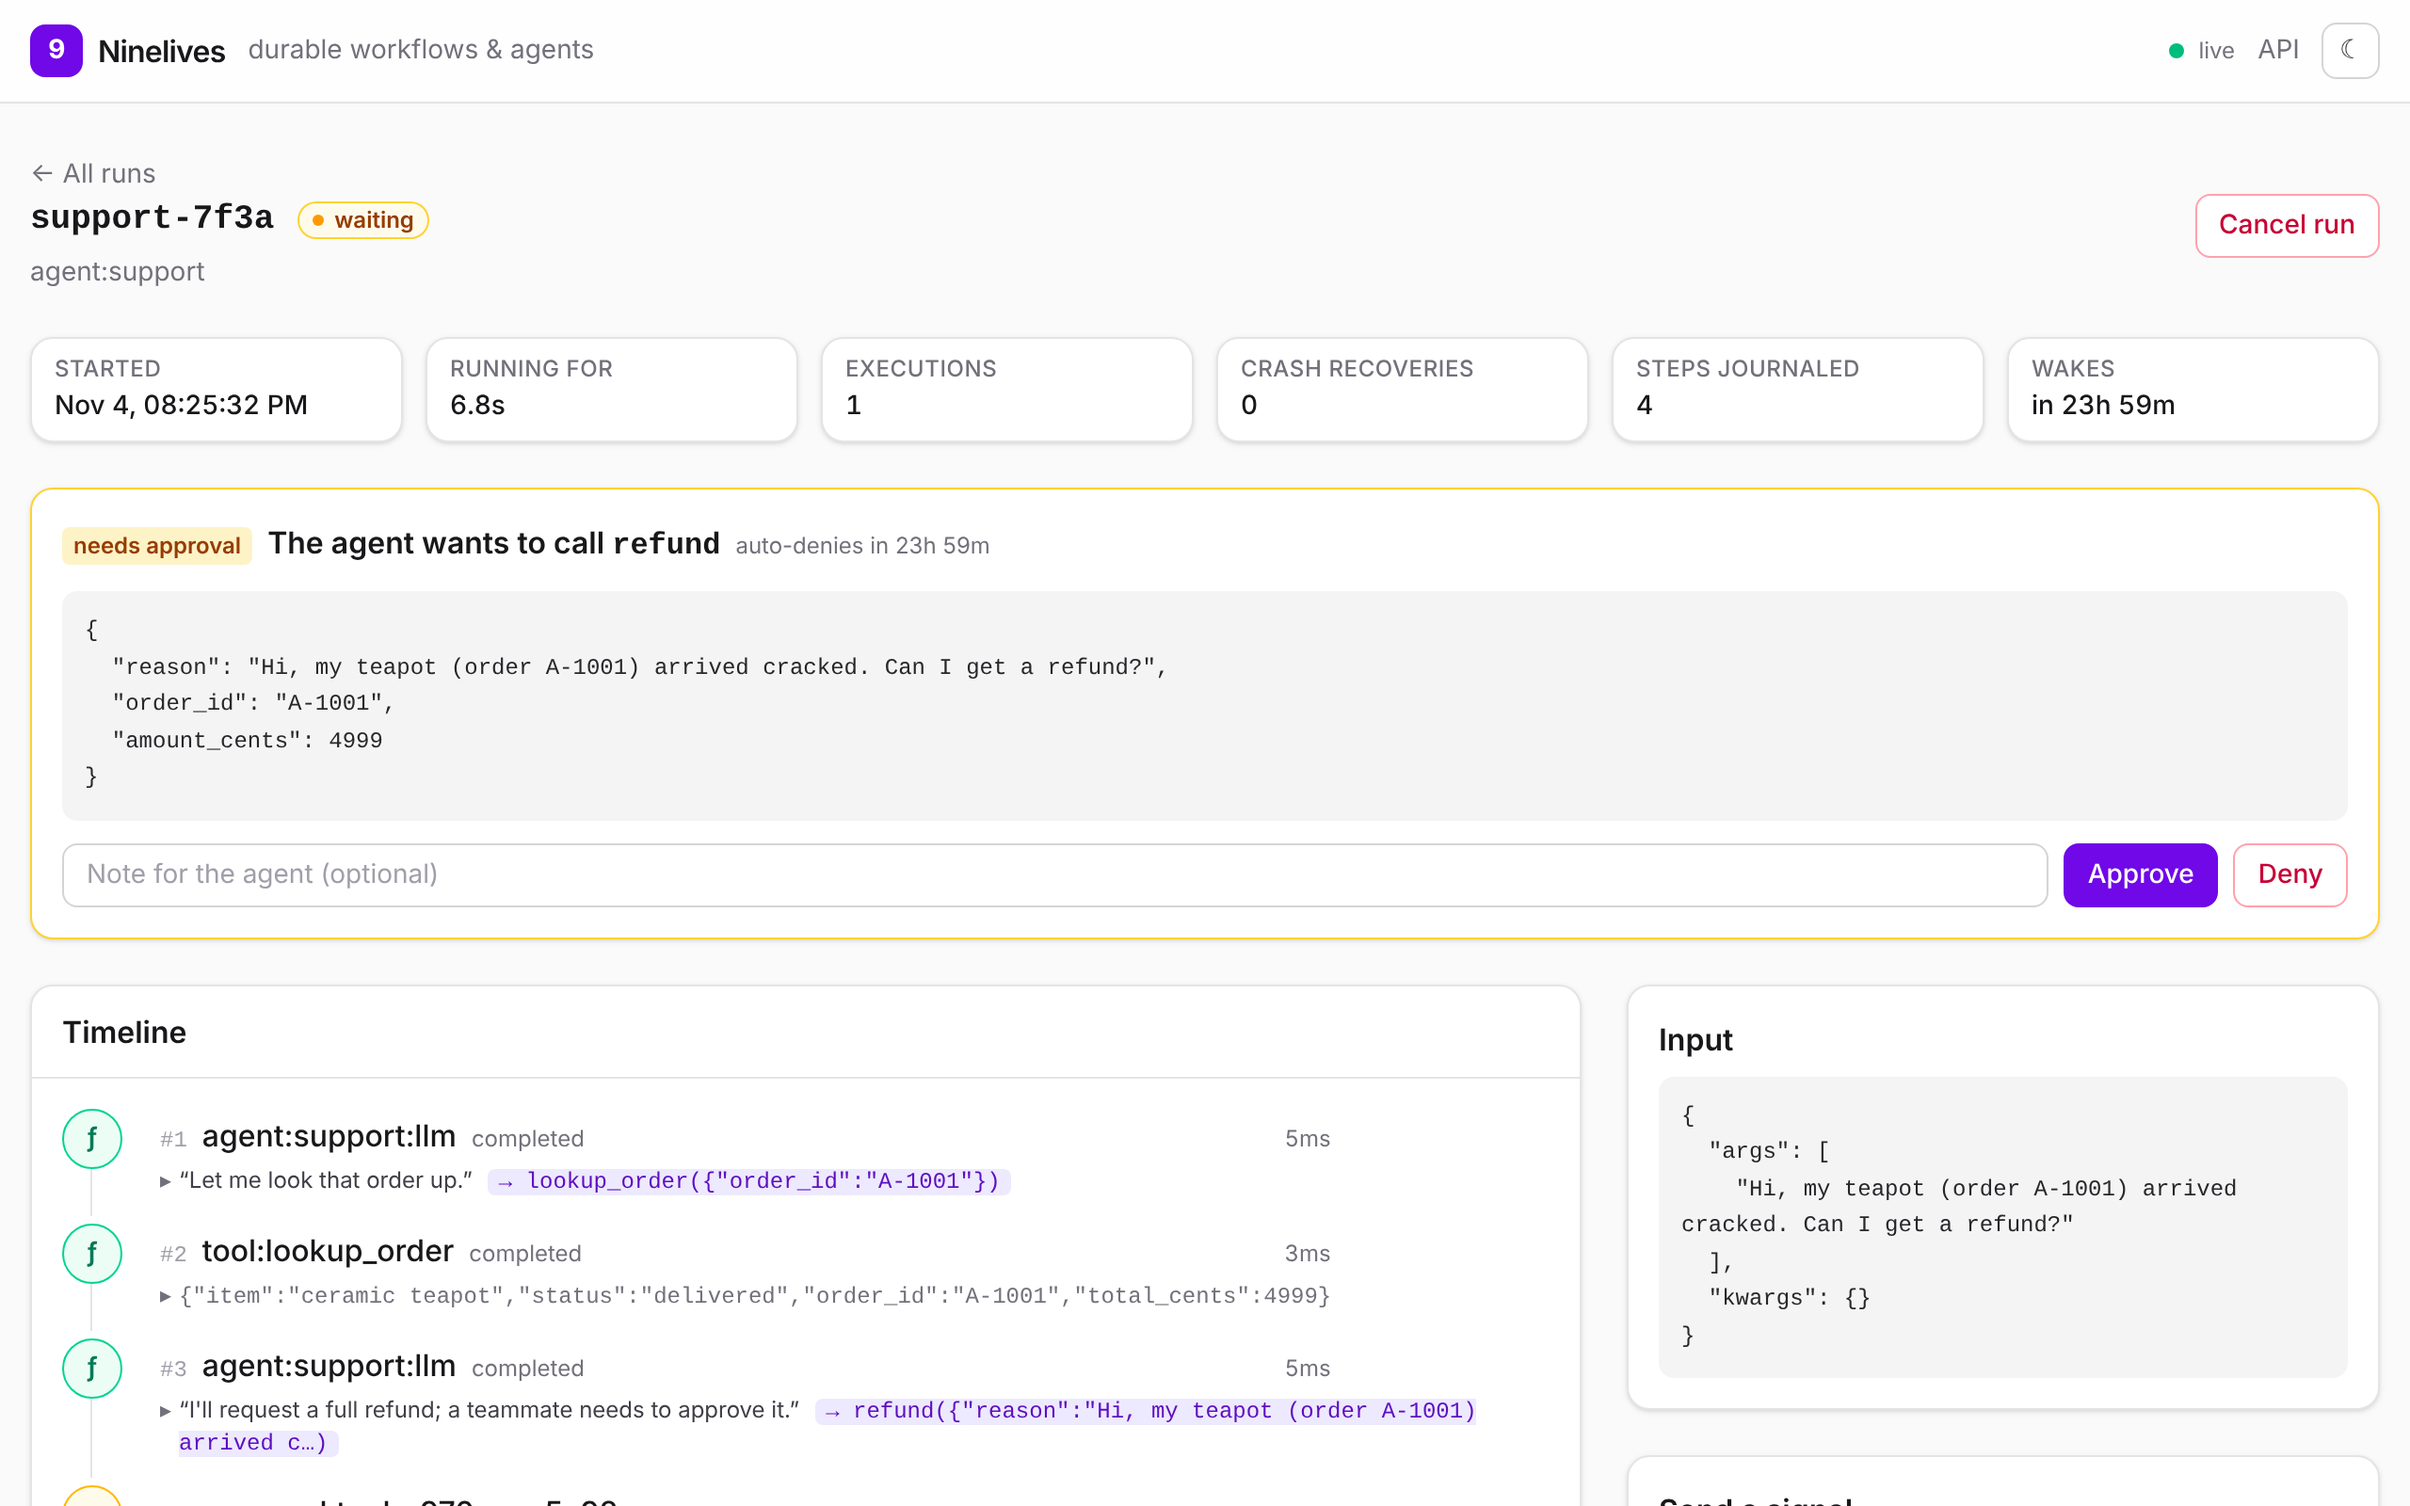
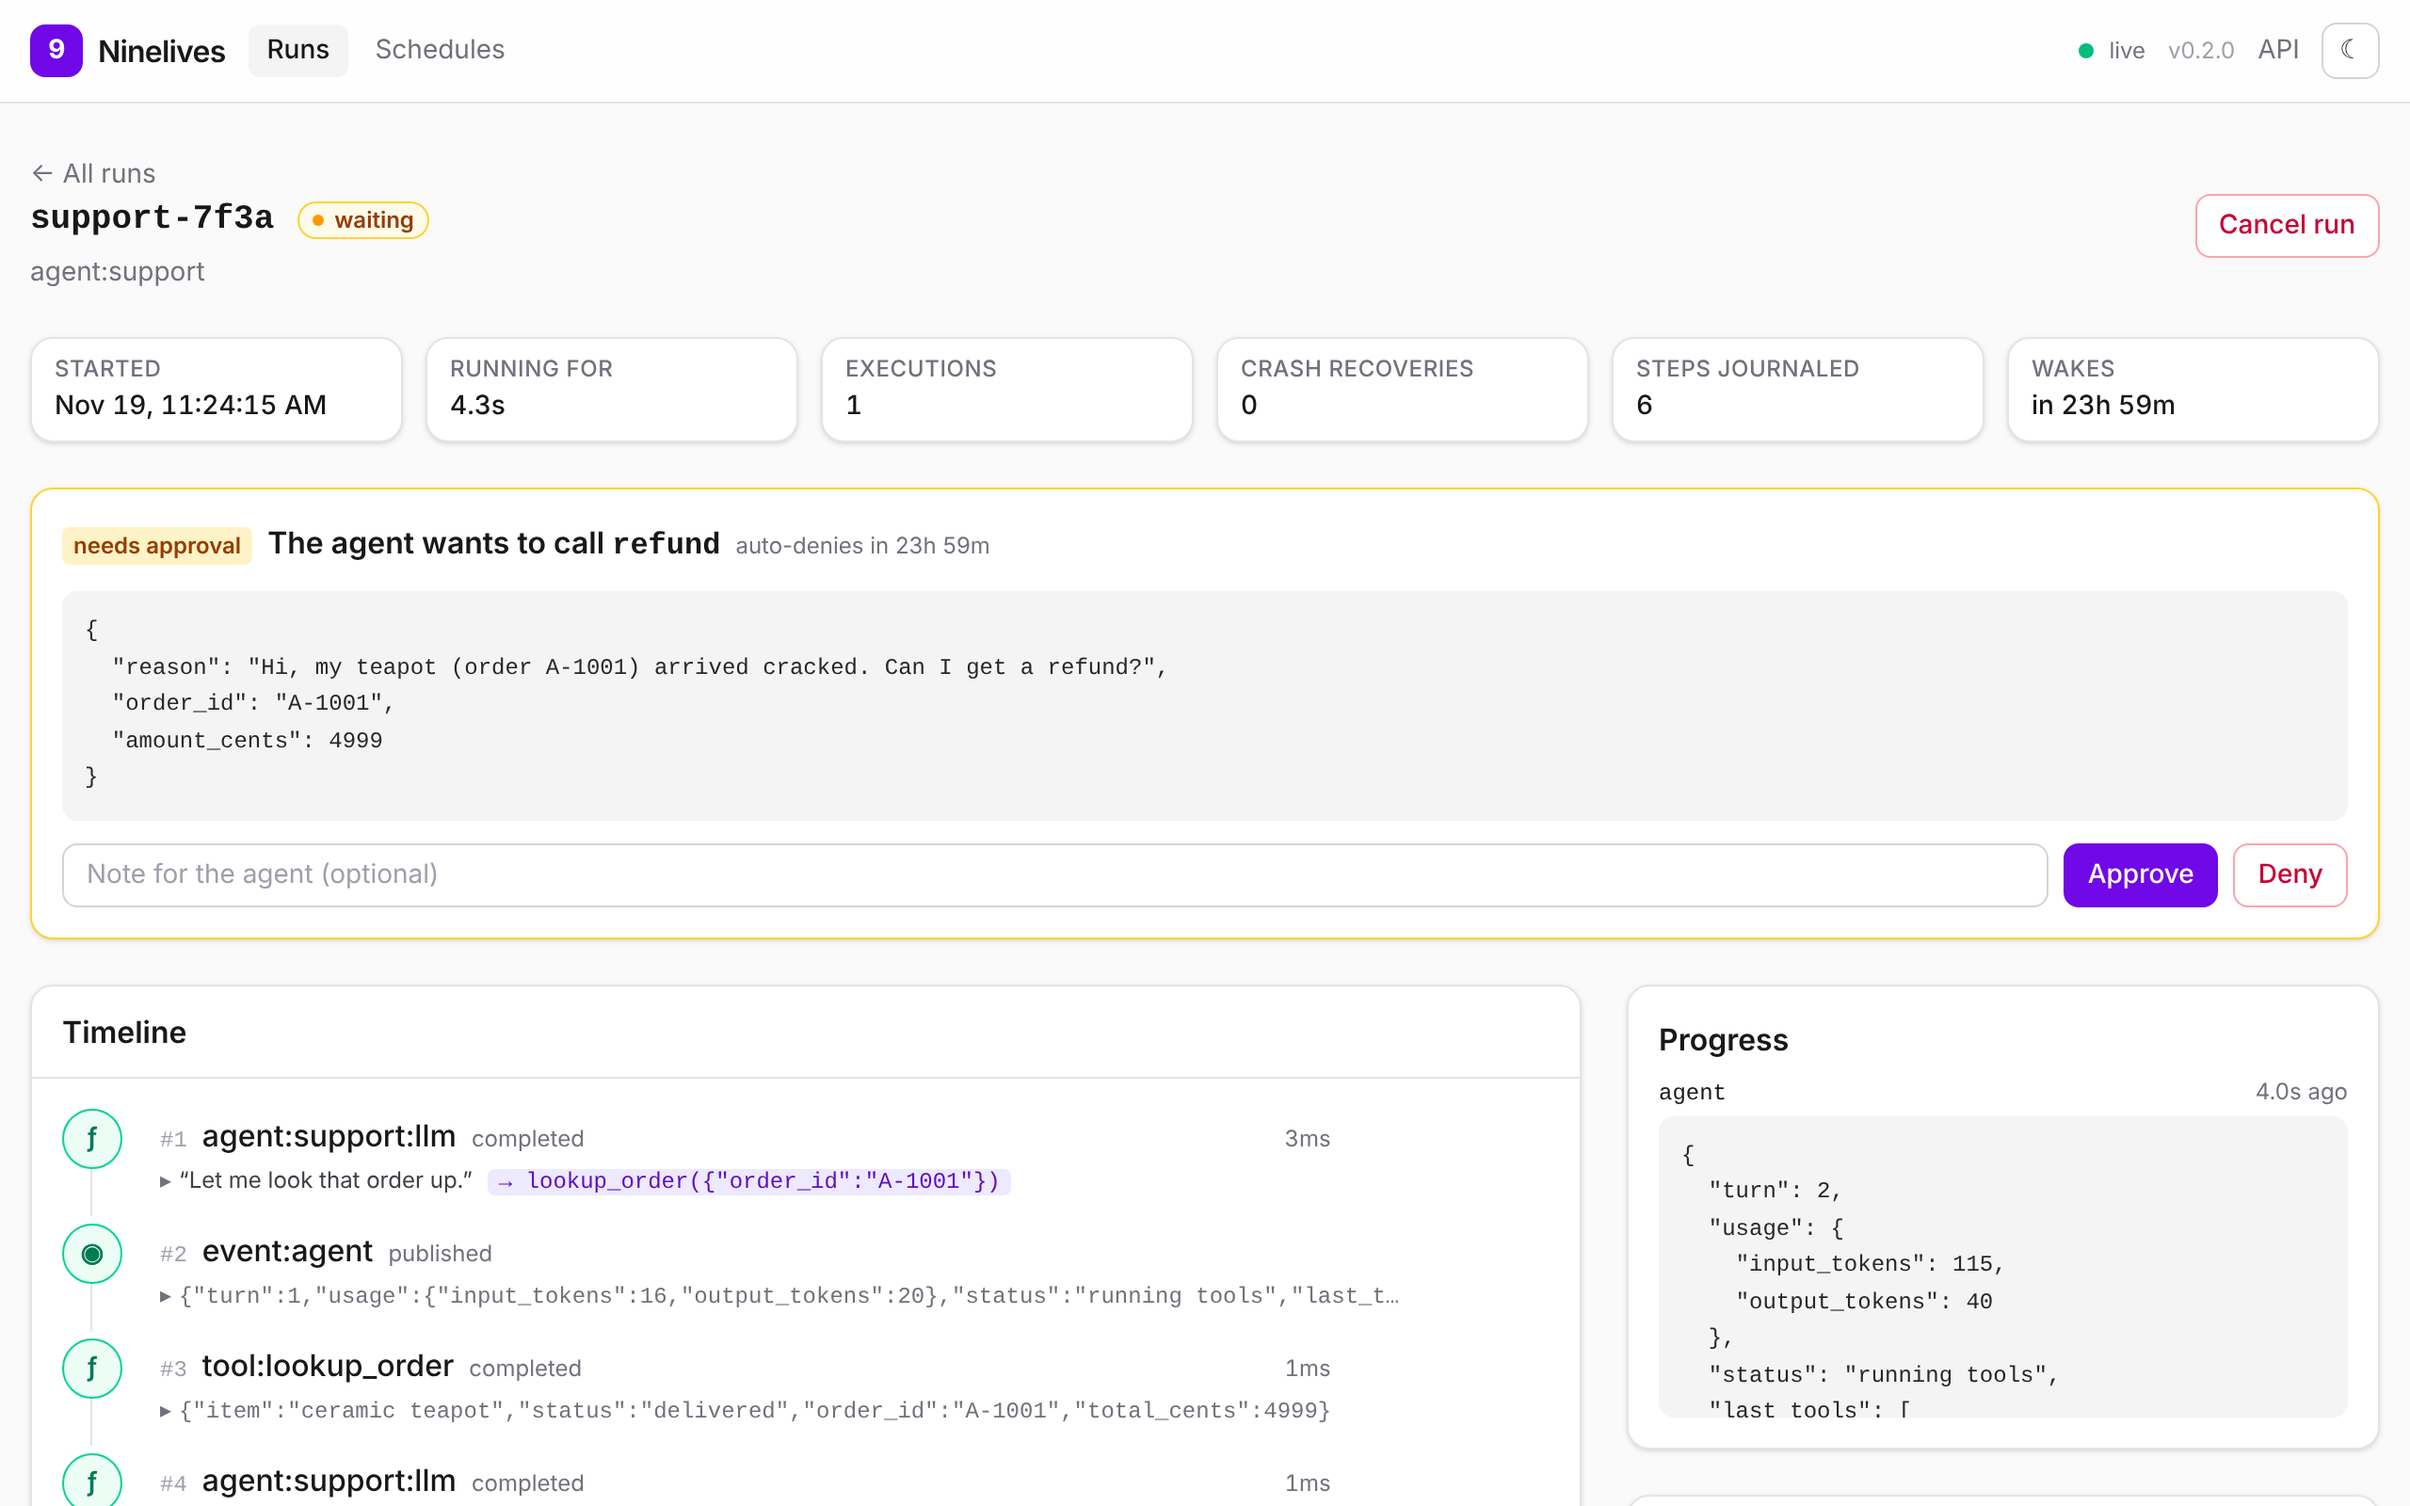
README screenshots from the v0.2 dashboard
Taken from the Docker Compose stack after SIGKILLing every worker mid-run: the checkout's
payment step failed twice on the first worker and succeeded on a second one, with its retry
count carried across the crash.

diff --git a/README.md b/README.md
@@ -9,7 +9,7 @@ step: nothing is done twice, nothing is lost.
 ![Python 3.11+](https://img.shields.io/badge/python-3.11%2B-blue)
 ![License: MIT](https://img.shields.io/badge/license-MIT-green)
 
-![A checkout run in the dashboard: the payment step failed four times, its worker was killed, and a second worker finished it](docs/images/run-timeline.png)
+![A checkout run in the dashboard: the payment step failed twice, its worker was killed, and a second worker finished it on the third attempt](docs/images/run-timeline.png)
 
 ```python
 from ninelives import Ninelives, step_info
